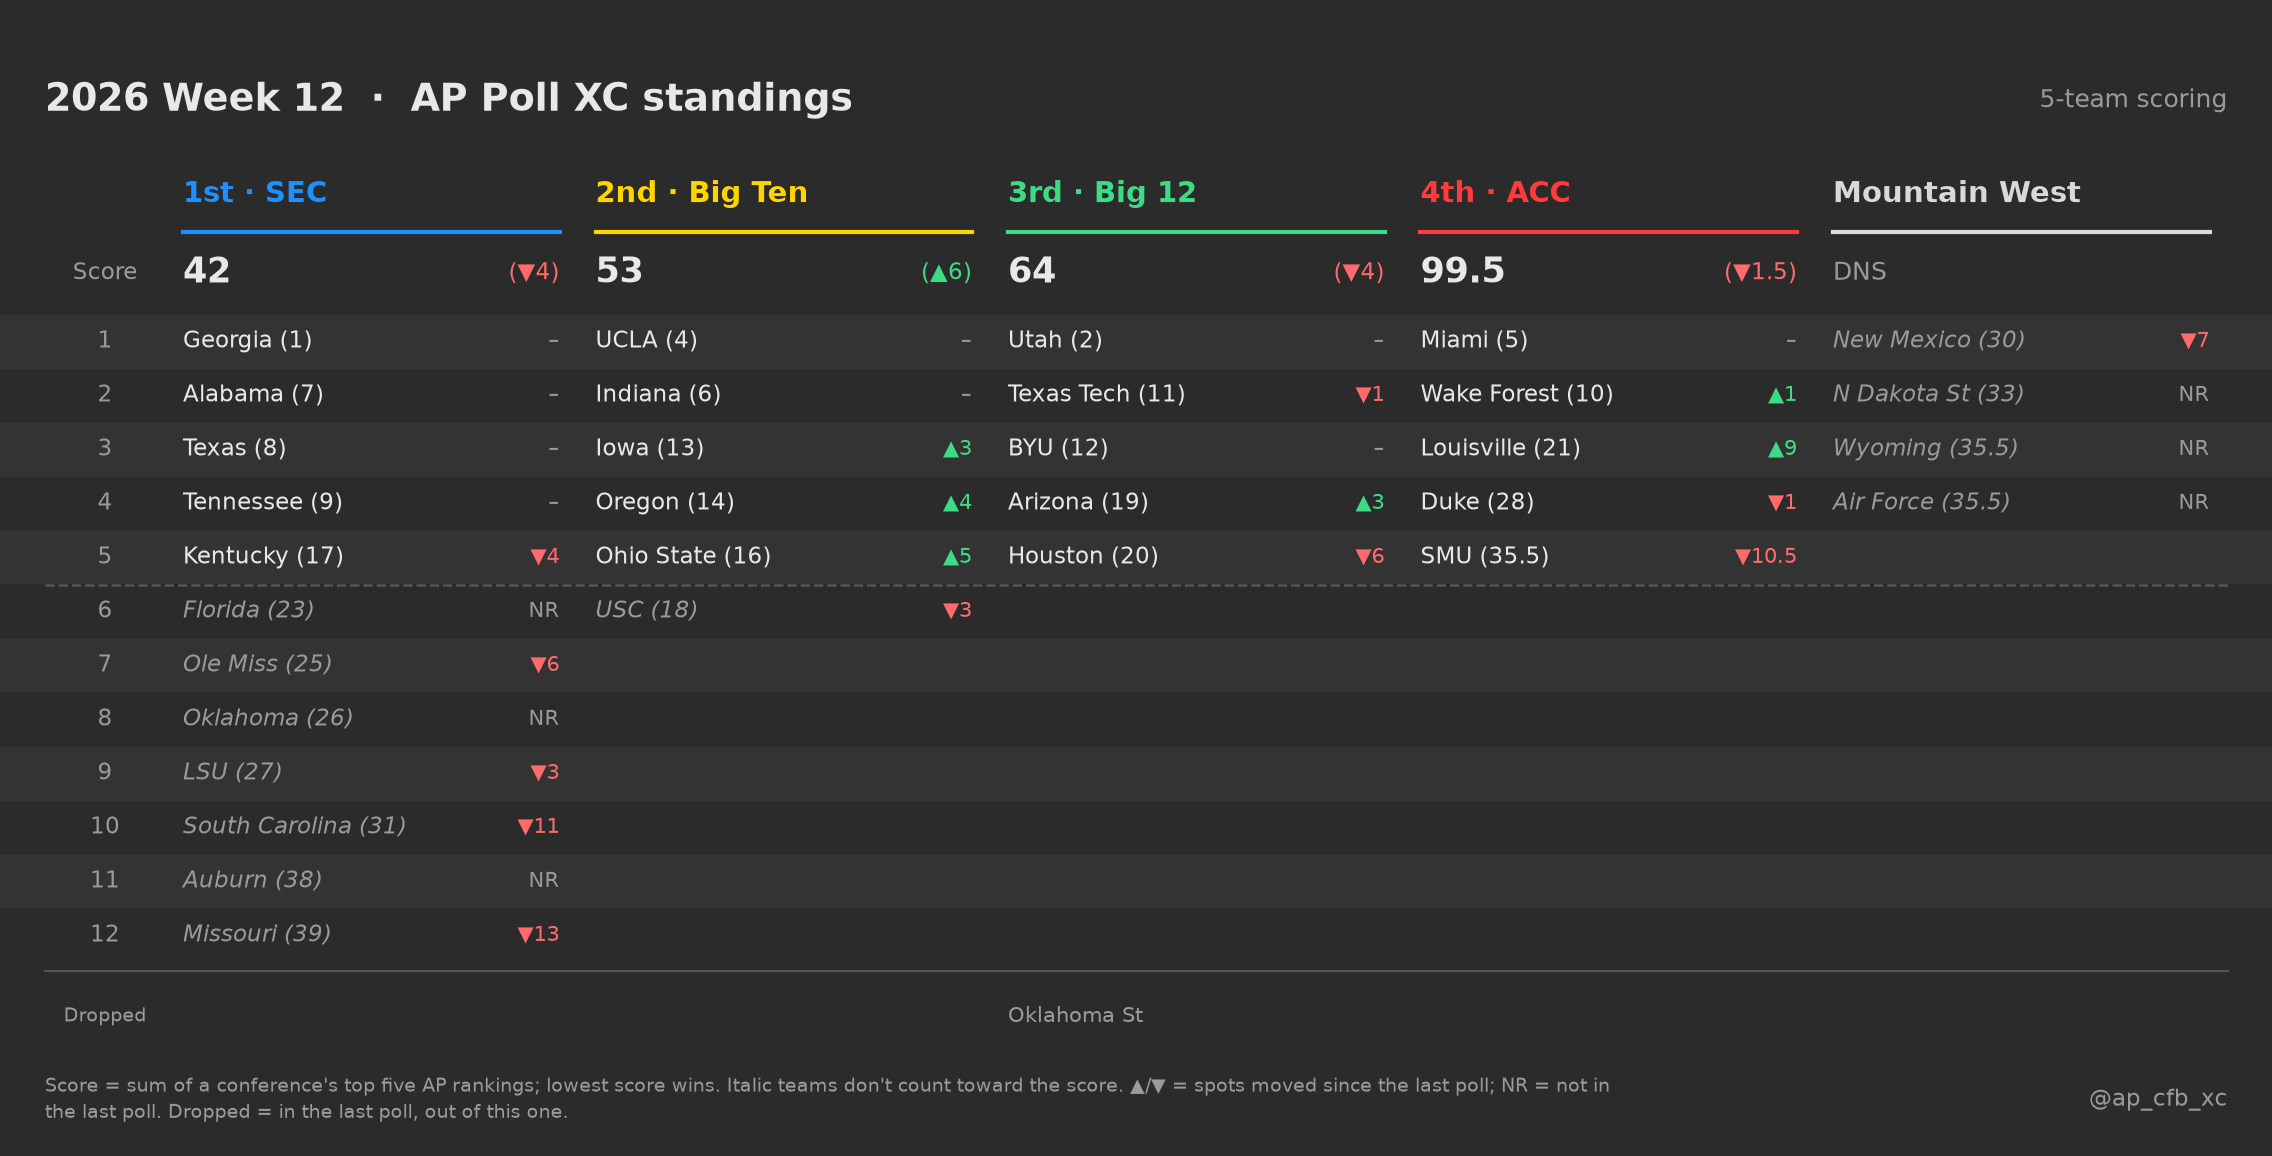
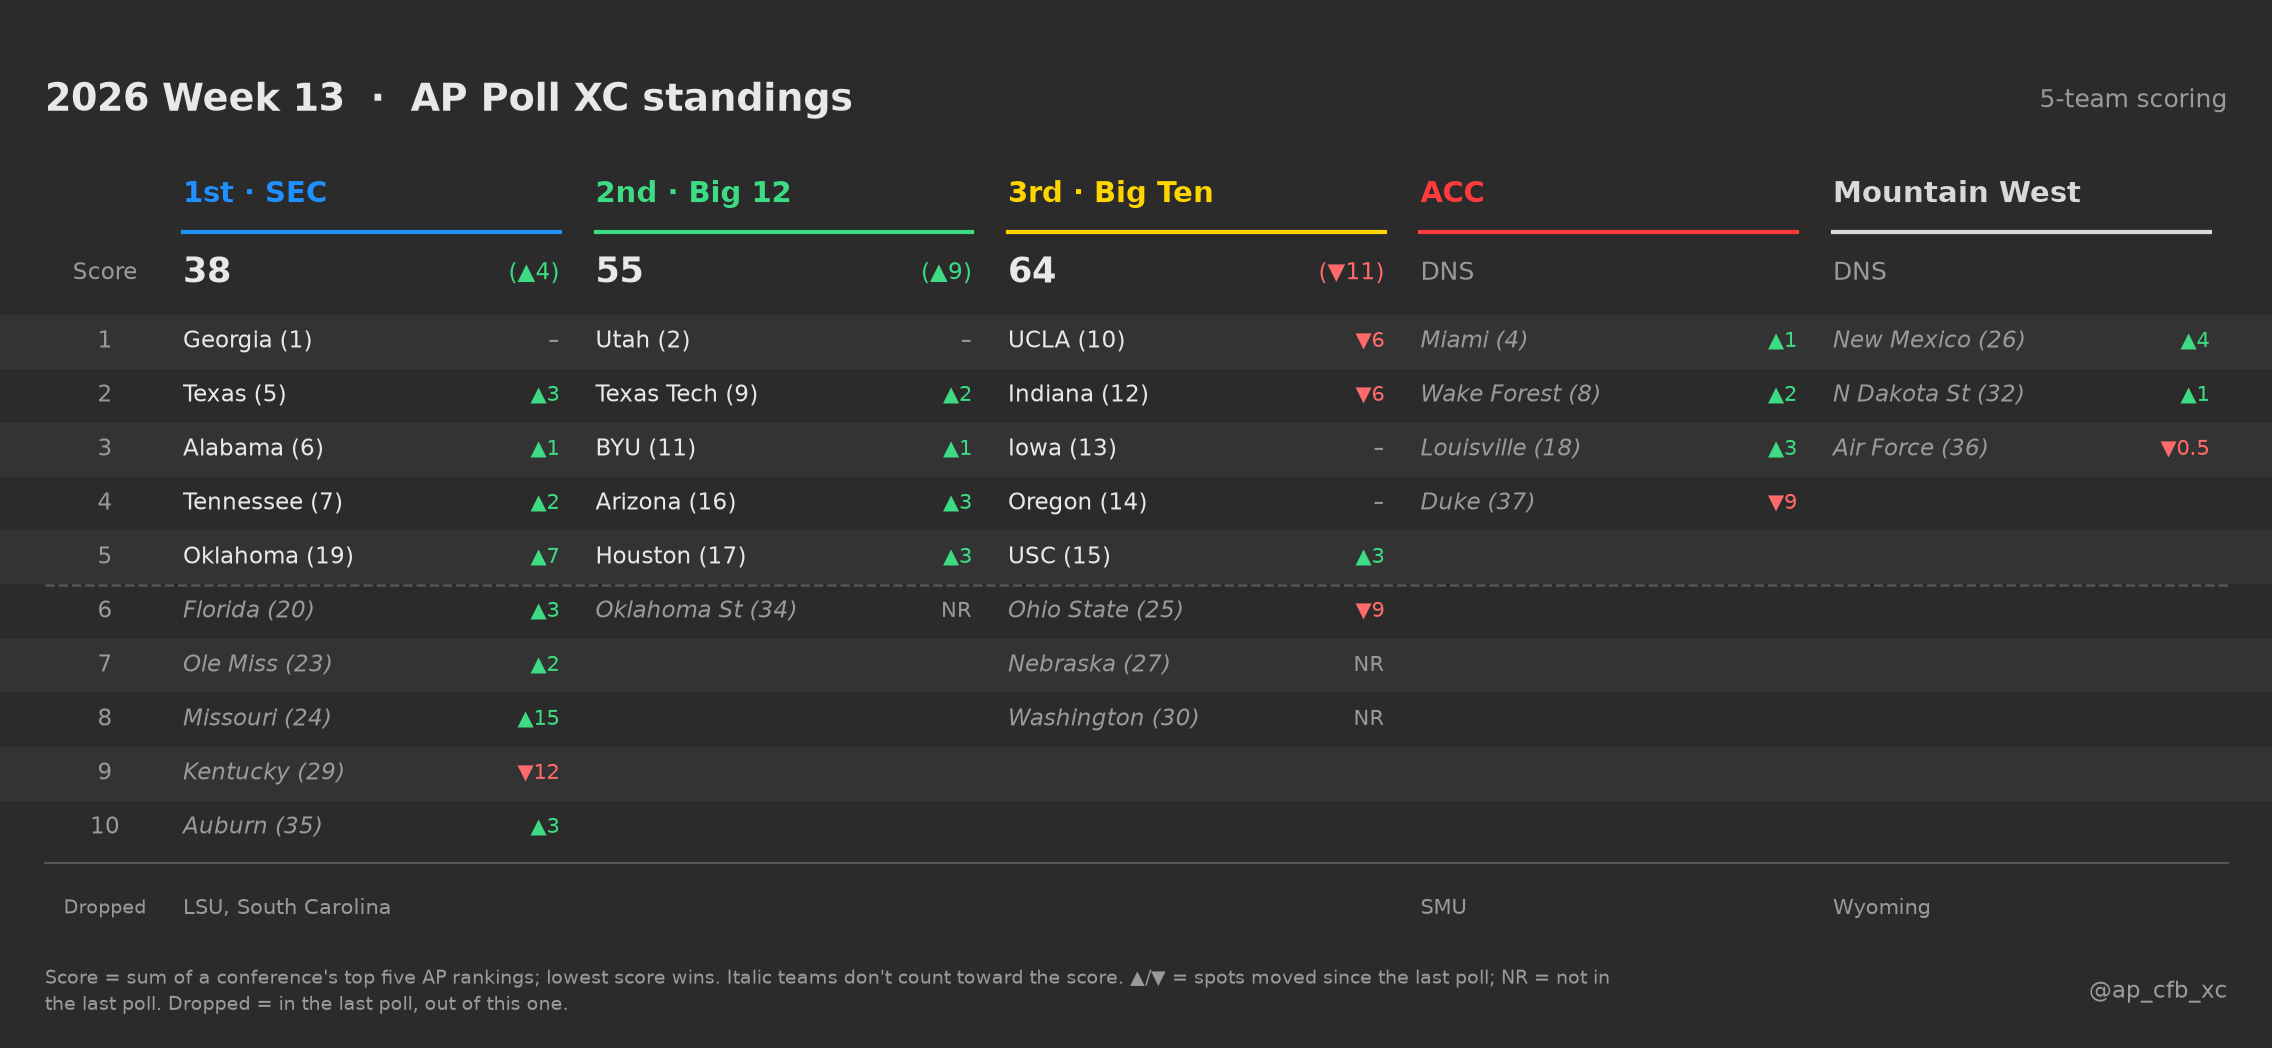
Add Week 13 results

diff --git a/README.md b/README.md
@@ -22,25 +22,23 @@ Each week's results are also posted to [@ap_cfb_xc on Twitter/X](https://x.com/a
 ![five team](images/current_week_5team.png)
 
 <!-- XC-TABLE-5-TEAM:START -->
-**2026 Week 12** — 5-team XC standings
+**2026 Week 13** — 5-team XC standings
 
-| Pos | 1st · SEC | 2nd · Big Ten | 3rd · Big 12 | 4th · ACC | FBS Indep. | Pac-12 | CUSA | American | Mountain West | Sun Belt | MAC |
+| Pos | 1st · SEC | 2nd · Big 12 | 3rd · Big Ten | ACC | FBS Indep. | CUSA | Pac-12 | Mountain West | American | Sun Belt | MAC |
 |:---:|:---|:---|:---|:---|:---|:---|:---|:---|:---|:---|:---|
-| **Score** | **42**&nbsp;(▼4) | **53**&nbsp;(▲6) | **64**&nbsp;(▼4) | **99.5**&nbsp;(▼1.5) | DNS | DNS | DNS | DNS | DNS | DNS | DNS |
-| 1 | Georgia (1)&nbsp;– | UCLA (4)&nbsp;– | Utah (2)&nbsp;– | Miami (5)&nbsp;– | *Notre Dame (3)&nbsp;–* | *Boise St (15)&nbsp;▲2* | *Liberty (22)&nbsp;▲7* | *Memphis (24)&nbsp;NR* | *New Mexico (30)&nbsp;▼7* | *Louisiana Tech (32)&nbsp;NR* | *Toledo (35.5)&nbsp;NR* |
-| 2 | Alabama (7)&nbsp;– | Indiana (6)&nbsp;– | Texas Tech (11)&nbsp;▼1 | Wake Forest (10)&nbsp;▲1 |  |  |  | *UTSA (29)&nbsp;NR* | *N Dakota St (33)&nbsp;NR* |  |  |
-| 3 | Texas (8)&nbsp;– | Iowa (13)&nbsp;▲3 | BYU (12)&nbsp;– | Louisville (21)&nbsp;▲9 |  |  |  |  | *Wyoming (35.5)&nbsp;NR* |  |  |
-| 4 | Tennessee (9)&nbsp;– | Oregon (14)&nbsp;▲4 | Arizona (19)&nbsp;▲3 | Duke (28)&nbsp;▼1 |  |  |  |  | *Air Force (35.5)&nbsp;NR* |  |  |
-| 5 | Kentucky (17)&nbsp;▼4 | Ohio State (16)&nbsp;▲5 | Houston (20)&nbsp;▼6 | SMU (35.5)&nbsp;▼10.5 |  |  |  |  |  |  |  |
+| **Score** | **38**&nbsp;(▲4) | **55**&nbsp;(▲9) | **64**&nbsp;(▼11) | DNS | DNS | DNS | DNS | DNS | DNS | DNS | DNS |
+| 1 | Georgia (1)&nbsp;– | Utah (2)&nbsp;– | UCLA (10)&nbsp;▼6 | *Miami (4)&nbsp;▲1* | *Notre Dame (3)&nbsp;–* | *Liberty (21)&nbsp;▲1* | *Boise St (22)&nbsp;▼7* | *New Mexico (26)&nbsp;▲4* | *UTSA (28)&nbsp;▲1* | *Louisiana Tech (31)&nbsp;▲1* | *Toledo (33)&nbsp;▲2.5* |
+| 2 | Texas (5)&nbsp;▲3 | Texas Tech (9)&nbsp;▲2 | Indiana (12)&nbsp;▼6 | *Wake Forest (8)&nbsp;▲2* |  |  |  | *N Dakota St (32)&nbsp;▲1* |  |  |  |
+| 3 | Alabama (6)&nbsp;▲1 | BYU (11)&nbsp;▲1 | Iowa (13)&nbsp;– | *Louisville (18)&nbsp;▲3* |  |  |  | *Air Force (36)&nbsp;▼0.5* |  |  |  |
+| 4 | Tennessee (7)&nbsp;▲2 | Arizona (16)&nbsp;▲3 | Oregon (14)&nbsp;– | *Duke (37)&nbsp;▼9* |  |  |  |  |  |  |  |
+| 5 | Oklahoma (19)&nbsp;▲7 | Houston (17)&nbsp;▲3 | USC (15)&nbsp;▲3 |  |  |  |  |  |  |  |  |
 |  | ——— | ——— | ——— | ——— | ——— | ——— | ——— | ——— | ——— | ——— | ——— |
-| 6 | *Florida (23)&nbsp;NR* | *USC (18)&nbsp;▼3* |  |  |  |  |  |  |  |  |  |
-| 7 | *Ole Miss (25)&nbsp;▼6* |  |  |  |  |  |  |  |  |  |  |
-| 8 | *Oklahoma (26)&nbsp;NR* |  |  |  |  |  |  |  |  |  |  |
-| 9 | *LSU (27)&nbsp;▼3* |  |  |  |  |  |  |  |  |  |  |
-| 10 | *South Carolina (31)&nbsp;▼11* |  |  |  |  |  |  |  |  |  |  |
-| 11 | *Auburn (38)&nbsp;NR* |  |  |  |  |  |  |  |  |  |  |
-| 12 | *Missouri (39)&nbsp;▼13* |  |  |  |  |  |  |  |  |  |  |
-| Dropped |  |  | Oklahoma St |  |  |  |  | North Texas |  |  |  |
+| 6 | *Florida (20)&nbsp;▲3* | *Oklahoma St (34)&nbsp;NR* | *Ohio State (25)&nbsp;▼9* |  |  |  |  |  |  |  |  |
+| 7 | *Ole Miss (23)&nbsp;▲2* |  | *Nebraska (27)&nbsp;NR* |  |  |  |  |  |  |  |  |
+| 8 | *Missouri (24)&nbsp;▲15* |  | *Washington (30)&nbsp;NR* |  |  |  |  |  |  |  |  |
+| 9 | *Kentucky (29)&nbsp;▼12* |  |  |  |  |  |  |  |  |  |  |
+| 10 | *Auburn (35)&nbsp;▲3* |  |  |  |  |  |  |  |  |  |  |
+| Dropped | LSU, South Carolina |  |  | SMU |  |  |  | Wyoming | Memphis |  |  |
 
 <sub>Each team is shown with its AP ranking. A conference's score is the sum of its top five teams' rankings - lowest score wins, and ties are broken by each conference's 6th runner. Italicized teams don't count toward the score; DNS means the conference didn't have enough ranked teams to score (listed after the scoring conferences). ▲/▼ is how many spots a team moved since last week's poll (a conference's score change is shown in parentheses; a lower score is better, so a falling score is ▲). – means unchanged and NR means it wasn't ranked or receiving votes last week. Dropped lists teams that were ranked or receiving votes last week but are out of the poll entirely this week, in last week's order.</sub>
 <!-- XC-TABLE-5-TEAM:END -->
